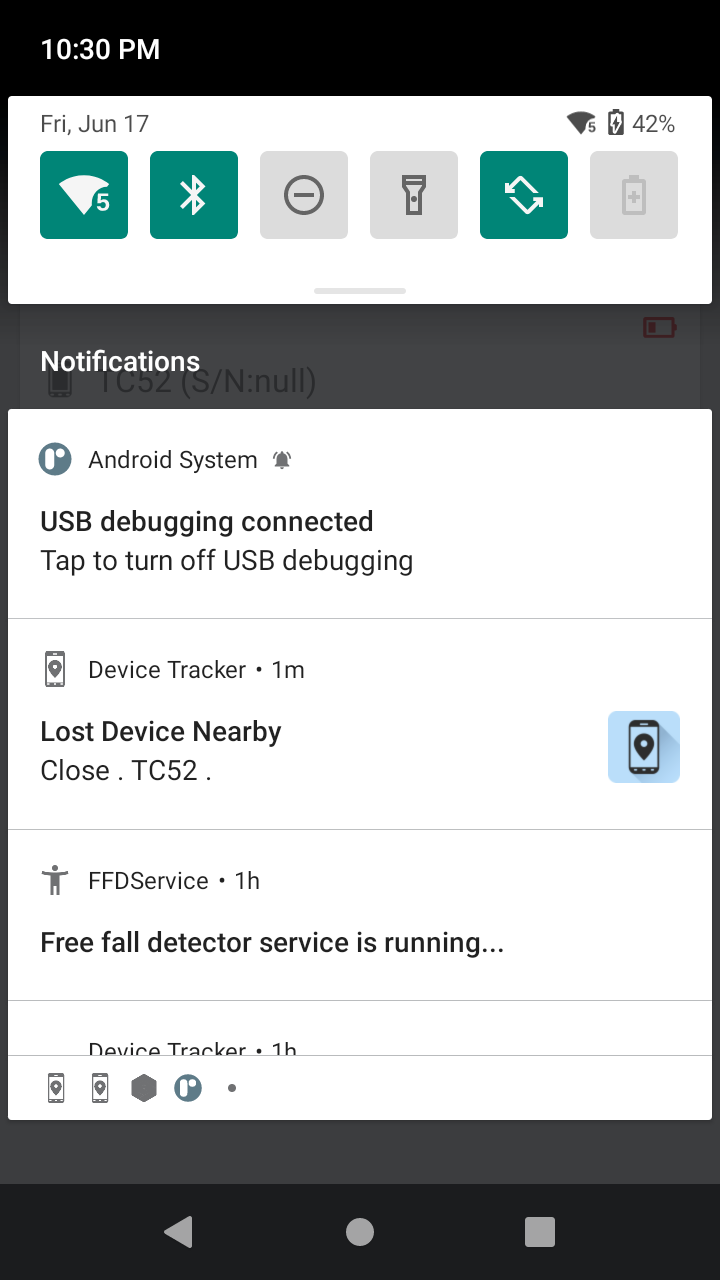
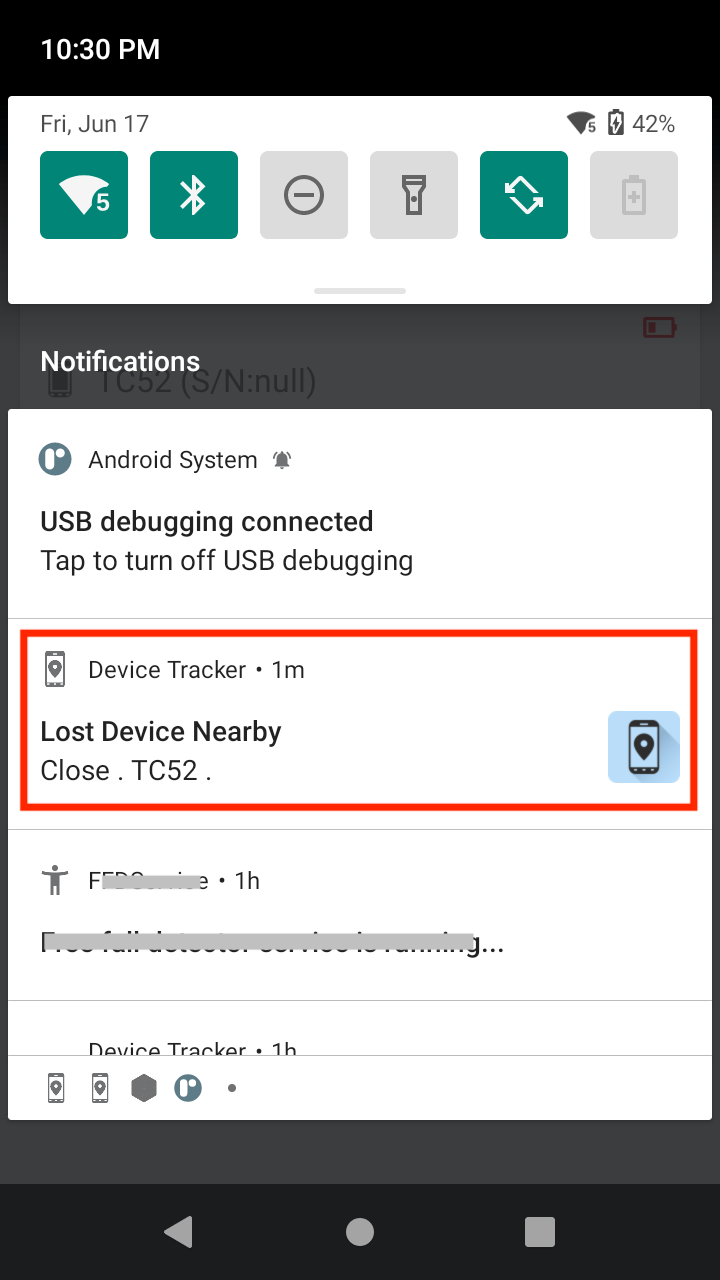
[SOLA-10324] DTRK 5.2 - Lost Device Nearby

Changed region(s): [[0.0, 0.4688, 0.9778, 0.75]]

diff --git a/devicetracker/5-2/guide/config/index.html b/devicetracker/5-2/guide/config/index.html
@@ -1591,44 +1591,57 @@ b. <strong>Automatically assign devices to a Connected AP's site</strong><br><i>
 
 <h2 id="lostdevicenearby" class="anchor"><a class="heading-anchor" href="#lostdevicenearby"><span></span></a>Lost Device Nearby</h2>
 
-<p><em>Lost Device Nearby</em> allows a device to receive a notification when it is detected to be in close proximity to a lost device marked for retrieval. If enabled, the detecting device in the "In Service" state scans for lost devices in the "Being Found" or "To Be Found" state. When the lost device is within proximity, a Lost Device Nearby notification appears on the detecting device. Tap on the notification to start the finding process. If internet is avaialble, the Device Details screen apepars and the user can start the finding process by tapping the <strong>Start Finding</strong> button. If no internet is available, the finding process immeidately starts, showing the proximity meter.</p>
+<p><em>Lost Device Nearby</em> automatically sends notification messages (with audio, vibrating or LED alerts) to any device located in close proximity of a lost device marked for retrieval. When the lost device is detected to be within nearby proximity, a notification appears alerting the user, and the finding process can be initiated. </p>
+
+<p>When the notification appears, tap on the notification to start the finding process:</p>
+
+<ul>
+<li>If the detecting device is <em>online</em> (internet is available), the <a href="../dashboard/#devicedetails">Device Details</a> screen appears and the user can start the finding process by tapping the <strong>Start Finding</strong> button. The tracking screen is displayed with the <a href="../use/#finddevice">proximity meter</a> for the user to proceed to find the lost device.</li>
+
+<li>If the detecting device is <em>offline</em> (no internet is available), the finding process immediately starts and the tracking screen is displayed with the <a href="../use/#finddevice">proximity meter</a> for the user to proceed to find the lost device.</li>
+</ul>
+
+<p><strong>Important:</strong> For <em>Lost Device Nearby</em> to function, <a href="#notificationconfiguration">Lost Device Nearby notifications</a> must be enabled, the detecting device must be "In Service" and the lost device must be in the "Being Found" or "To Be Found" state.</p>
+
+<p><img alt="image" style="height:350px" src="lost-device-notification.png"></p>
+
+<p><em>Lost Device Nearby notification</em></p>
 
 <p>If <em>Lost Device Nearby</em> is enabled, the "To Be Found" screen displays the following tabs:</p>
 
 <ul>
-<li><strong>Nearby -</strong> Filters devices that are receiving Bluetooth beacons, are located within proximity and are in the "Being Found" or "To Be Found" state.</li>
+<li><strong>All -</strong> Displays devices that are receiving Bluetooth beacons and are in the "Being Found" or "To Be Found" state.</li>
 
-<li><strong>All -</strong> Displays devices within the site that are receiving Bluetooth beacons, are located within proximity and are in the "Being Found" or "To Be Found" state.</li>
+<li><strong>Nearby -</strong> Filters devices that are located within nearby proximity, receiving Bluetooth beacons and are in the "Being Found" or "To Be Found" state.</li>
 </ul>
 
 <table>
   <tbody><tr>
-   <td>
-        <img alt="image" style="height:350px" src="to-be-found-nearby.png">
-   </td> 
-   <td>&nbsp;&nbsp;&nbsp;&nbsp;&nbsp;</td>
    <td> 
         <img alt="image" style="height:350px" src="to-be-found-all.png">
    </td>
+   <td>&nbsp;&nbsp;&nbsp;&nbsp;&nbsp;</td>
+   <td>
+        <img alt="image" style="height:350px" src="to-be-found-nearby.png">
+   </td> 
   </tr>
   <tr>
     <td>
-        <i>To Be Found - Nearby Devices</i>
+        <i>To Be Found - All Devices</i>
     </td>
     <td>&nbsp;&nbsp;&nbsp;&nbsp;&nbsp;</td>
     <td>
-        <i>To Be Found - All Devices</i>
+        <i>To Be Found - Nearby Devices</i>
     </td>
   </tr>
 </tbody></table>
 
-<p><strong>Notes:</strong> </p>
+<p><strong>Usage Notes:</strong> </p>
 
 <ul>
-<li>Any existing <em>Lost Device Nearby</em> notifications are removed when beacons are no longer received. This could be due the lost device no longer being in proximity range or to a change in device state of the detecting device from "In Service" to another state.
-When the detecting device changes from "In Service" to another state or the lost device is moved out of range, any <em>Lost Device Nearby</em> notifications already received are removed. </li>
+<li>Any <em>Lost Device Nearby</em> notifications are removed when Bluetooth beacons are no longer received from the lost device. This could be due the lost device no longer being within close proximity range or due to a change in device state of the detecting device from "In Service" to another state.</li>
 
-<li>When the detecting device is offline (no Wi-Fi connection), the device search using <em>Lost Device Nearby</em> is still functional since it relies on Bluetooth.</li>
+<li>When the detecting device is offline (no internet connection), a device search through <em>Lost Device Nearby</em> is still functional since it relies on Bluetooth. However, action cannot be taken (e.g. mark the device as "Found") until the detecting device is back online.</li>
 
 <li><em>Lost Device Nearby</em> notifications are <em>not</em> received in any of the following scenarios:
 
@@ -1636,17 +1649,17 @@ When the detecting device changes from "In Service" to another state or the lost
 <ul>
 <li>The detecting device is no longer in the "In Service" state.</li>
 
-<li>The detecting device is charging. Beacon detection does not take place and therefore no notifications can be received. </li>
+<li>The detecting device is charging. </li>
 
-<li>The Checkin/Checkout feature is enabled and user has not checked out the device.</li>
+<li>The <a href="#checkincheckoutdevice">Checkin/Checkout</a> feature is enabled and user has not checked out the device.</li>
 
-<li>The detecting device is in low battery state and low battery scans are not allowed (separate config). <code>Check</code></li></ul>
+<li>The detecting device is in a low battery state and low battery scans are not allowed (separate config). <code>Check</code></li></ul>
 </li>
 </ul>
 
 <!--  for 1 second, waits for a period of 2 seconds, then repeats this cycle. This ensures that the detecting device optimally preserves battery charge.-->
 
-<h3 id="configuredevicenotifications" class="anchor"><a class="heading-anchor" href="#configuredevicenotifications"><span></span></a>Configure Device Notifications</h3>
+<h3 id="notificationconfiguration" class="anchor"><a class="heading-anchor" href="#notificationconfiguration"><span></span></a>Notification Configuration</h3>
 
 <p>To enable the <em>Lost Device Nearby</em> feature and configure its notification settings:</p>
 
@@ -1654,7 +1667,7 @@ When the detecting device changes from "In Service" to another state or the lost
 <li>Login to the web portal as an administrator.</li>
 
 <li>Click <strong>Settings</strong> in the left menu and click <strong>Notifications.</strong>
-<img alt="image" style="height:450px" src="lost-device-nearby.png"></li>
+<img alt="image" style="height:450px" src="lost-device-nearby-options.png"></li>
 
 <li>Toggle to enable the option <strong>Send lost device nearby notification.</strong></li>
 
@@ -1686,7 +1699,7 @@ When the detecting device changes from "In Service" to another state or the lost
 
 <li><strong>LED -</strong> If enabled, an LED notification is emitted on the scanning device. The default LED is blue.</li>
 
-<li><strong>Pop-up Message -</strong> <em>(Required)</em> A pop-up message appears on the screen of the detecting device. Optionally, enter a custom title for the notification. The default title is "Lost Device Nearby." </li>
+<li><strong>Notification Message -</strong> Specify the notification message content to display on the detecting device. By default, the message is: "Lost Device Nearby".</li>
 
 <li><strong>Maximum RSSI Value (in dBm) -</strong> Enter the maximum signal strength of the receiving beacon to detect when a device is within proximity. The higher the negative value, the further away the device can be detected. The lower the negative value, the shorter the distance the device can be detected.</li></ul>
 </li>

diff --git a/devicetracker/5-2/guide/about/index.html b/devicetracker/5-2/guide/about/index.html
@@ -287,11 +287,11 @@ See [Dashboard](../dashboard/) to learn how to monitor devices and take action w
 <h2 id="newindevicetracker52" class="anchor"><a class="heading-anchor" href="#newindevicetracker52"><span></span></a>New in Device Tracker 5.2</h2>
 
 <ul>
-<li>New feature to detect <a href="../config/#lostdevicenearby">lost devices nearby</a> when a lost device is marked for retrieval. The detecting device receives a notification when located in the proximity of a lost device.</li>
-
-<li><a href="../config/#enterpriseloginscreen">Enterprise Login Screen</a> facilitates SSO login for users to gain device access.</li>
-
-<li><a href="../config/#">Site Data Report</a> - generate reports on daily device status counts, device utilization and device checkout to monitor performance and activity.</li>
+<li>New <a href="../config/#lostdevicenearby">Lost Device Nearby</a> feature automatically sends notification messages (with audio, vibrating, or LED alerts) to any device located in close proximity of a lost device.
+<!-- 
+- [Enterprise Login Screen](../config/#enterpriseloginscreen) facilitates SSO login for users to gain device access.
+- [Site Data Report](../config/#) - generate reports on daily device status counts, device utilization and device checkout to monitor performance and activity.
+--></li>
 </ul>
 
 <hr>
